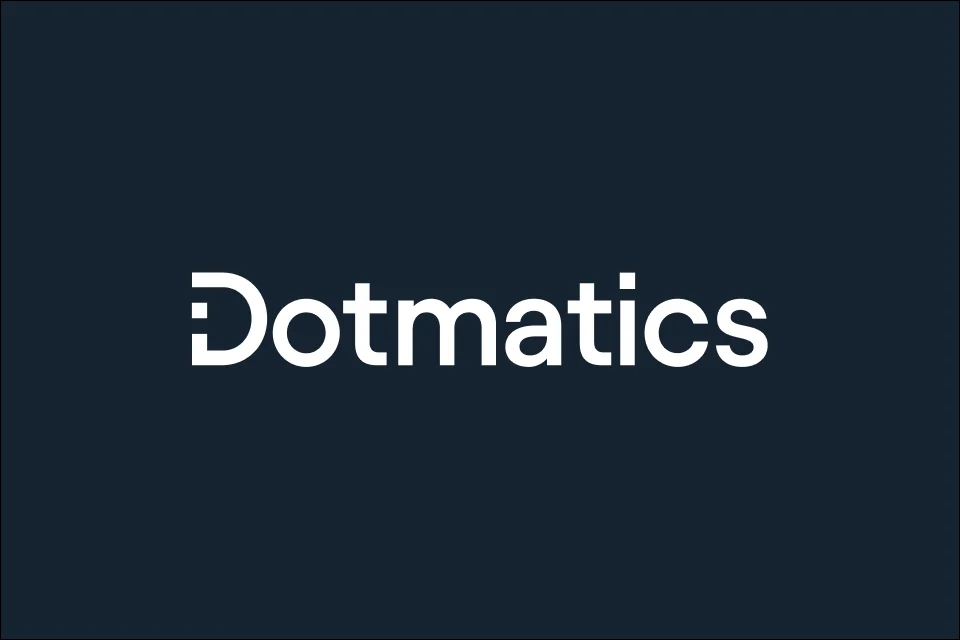
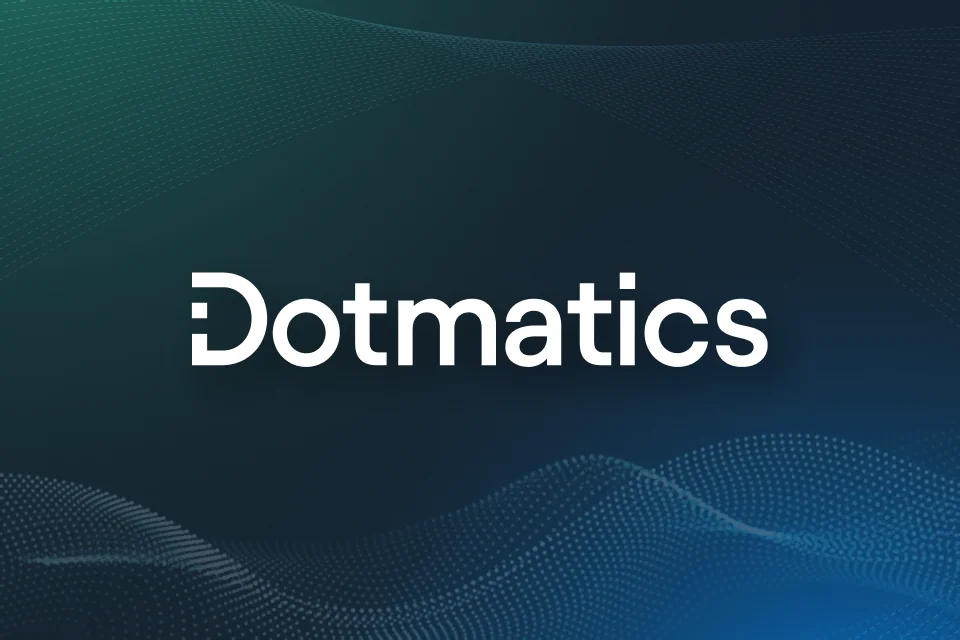
Replace Dotmatics thumbnail with dot-wave version

Changed region(s): [[0.0, 0.5938, 1.0, 1.0], [0.0, 0.0, 0.625, 0.4375]]

diff --git a/index.html b/index.html
@@ -89,7 +89,7 @@
                 <li>
                     <a class="card" href="dotmatics.html">
                         <div class="card__media">
-                            <img src="images/Dotmatics/Project_Thumbnail-960x640.webp" alt="The Dotmatics wordmark on a dark navy field" width="960" height="640">
+                            <img src="images/Dotmatics/Project_Thumbnail-960x640.webp" alt="The Dotmatics wordmark over teal and blue dot-wave graphics on a dark navy field" width="960" height="640">
                         </div>
                         <div class="card__meta">
                             <h3 class="card__title">Dotmatics</h3>
